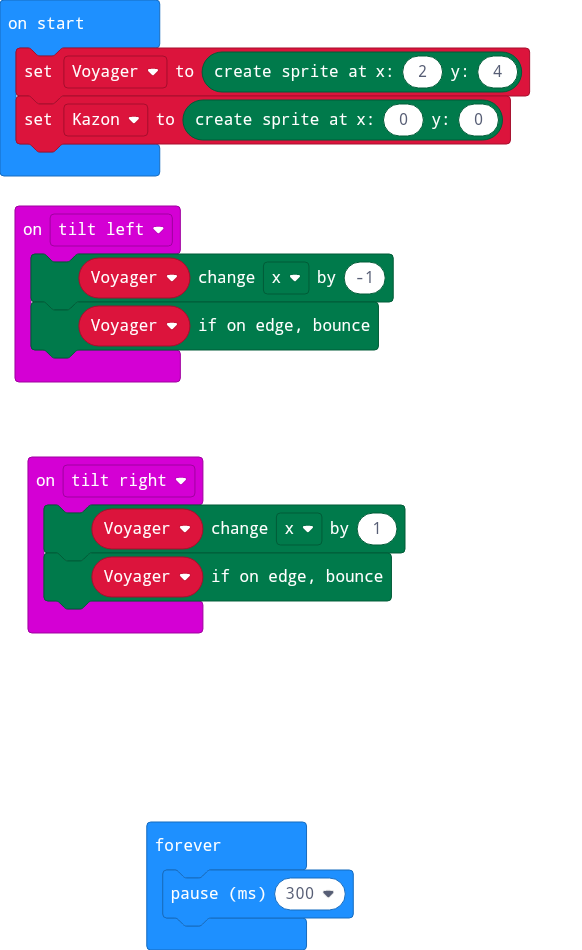
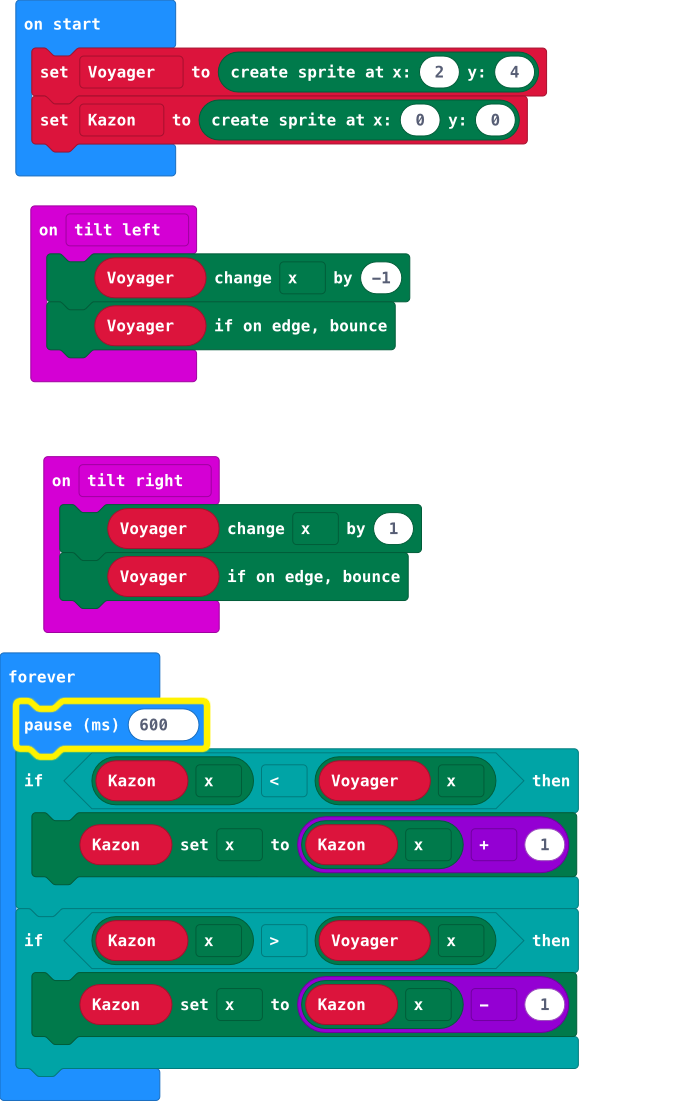
Update main.blocks, main.ts

diff --git a/main.ts b/main.ts
@@ -10,5 +10,11 @@ let Voyager: game.LedSprite = null
 Voyager = game.createSprite(2, 4)
 let Kazon = game.createSprite(0, 0)
 basic.forever(function () {
-    basic.pause(300)
+    basic.pause(600)
+    if (Kazon.get(LedSpriteProperty.X) < Voyager.get(LedSpriteProperty.X)) {
+        Kazon.set(LedSpriteProperty.X, Kazon.get(LedSpriteProperty.X) + 1)
+    }
+    if (Kazon.get(LedSpriteProperty.X) > Voyager.get(LedSpriteProperty.X)) {
+        Kazon.set(LedSpriteProperty.X, Kazon.get(LedSpriteProperty.X) - 1)
+    }
 })
